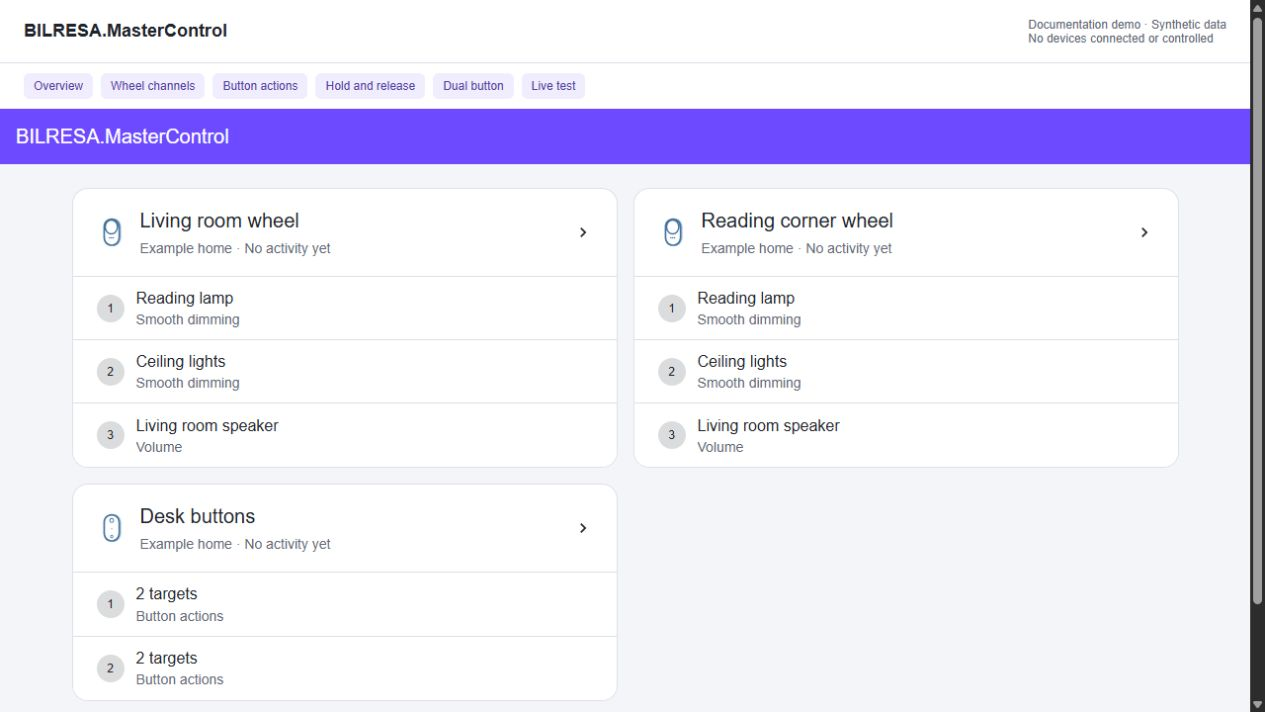
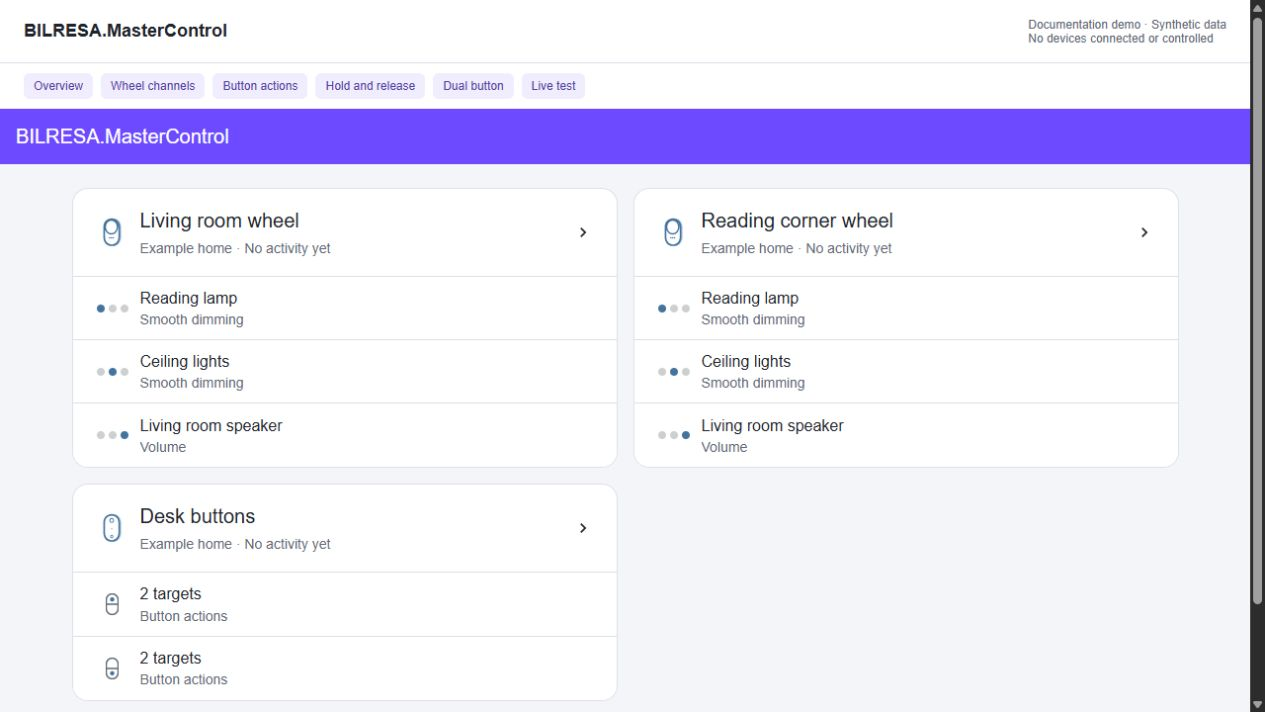
Restore README branding and unify channel markers for rc3 release

diff --git a/custom_components/ikea_bilresa/frontend/ikea_bilresa_panel.js b/custom_components/ikea_bilresa/frontend/ikea_bilresa_panel.js
@@ -506,16 +506,13 @@ const STYLES = `
     background: var(--_card);
   }
   .channel:last-child { border-block-end: 0; }
-  .channel-n {
+  .control-marker {
     flex: 0 0 auto;
-    inline-size: 28px;
-    block-size: 28px;
-    display: grid;
-    place-items: center;
-    border-radius: 50%;
-    background: color-mix(in srgb, var(--_ink) 16%, var(--_card));
-    font-size: var(--ha-font-size-s, 12px);
-    font-weight: var(--ha-font-weight-medium, 500);
+    inline-size: 32px;
+    min-block-size: 28px;
+    display: inline-flex;
+    align-items: center;
+    justify-content: center;
   }
   .channel-text { min-inline-size: 0; flex: 1; }
   .channel-primary,
@@ -2291,10 +2288,9 @@ class IkeaBilresaPanel extends HTMLElement {
 
   _overviewControl(device, control) {
     const configured = this._isConfigured(control);
-    const number = this._controlNumber(device, control);
     const row = el("span", "channel");
     row.dataset.state = configured ? "ok" : "empty";
-    row.appendChild(el("span", "channel-n", String(number)));
+    row.appendChild(this._controlMarker(device, control));
 
     // The light is what a person recognises; "Smooth dimming" was the same on
     // every row of a typical home, so it no longer leads.
@@ -2324,6 +2320,24 @@ class IkeaBilresaPanel extends HTMLElement {
       row.appendChild(svg(ICON.alert, "channel-warn"));
     }
     return row;
+  }
+
+  _controlMarker(device, control) {
+    const isButton = device.variant === "dual_button";
+    const number = this._controlNumber(device, control);
+    const label = this._t(isButton ? "button_title" : "channel_title", {
+      [isButton ? "button" : "channel"]: number,
+    });
+    const marker = el("span", "control-marker");
+    marker.title = label;
+    marker.setAttribute("role", "img");
+    marker.setAttribute("aria-label", label);
+    marker.appendChild(
+      isButton
+        ? buttonHalves(number)
+        : channelLeds(number, this._controlsFor(device).length),
+    );
+    return marker;
   }
 
   _wheel(wheel) {
@@ -4893,7 +4907,7 @@ class IkeaBilresaPanel extends HTMLElement {
     for (const control of this._controlsFor(wheel)) {
       const number = this._controlNumber(wheel, control);
       const row = el("div", "live-channel");
-      row.appendChild(el("span", "channel-n", String(number)));
+      row.appendChild(this._controlMarker(wheel, control));
       const copy = el("div", "live-channel-copy");
       copy.appendChild(
         el(

diff --git a/tests/test_docs.py b/tests/test_docs.py
@@ -113,6 +113,20 @@ def test_readme_links_to_hardware_plan() -> None:
     assert "docs/HARDWARE-VALIDATION.md" in _links(README_EN)
 
 
+def test_readme_preserves_the_banner_and_marketplace_install_button() -> None:
+    text = README_EN.read_text(encoding="utf-8")
+    assert "docs/images/bilresa-remotes-banner.jpg" in _links(README_EN)
+    assert (
+        "[![Open in Marketplace on My Home Assistant]"
+        "(https://my.home-assistant.io/badges/marketplace_repository.svg)]"
+        "(https://my.home-assistant.io/redirect/marketplace_repository/"
+        "?owner=WI-Les&repository=ha-bilresa&category=integration)"
+    ) in text
+    assert text.index("bilresa-remotes-banner.jpg") < text.index(
+        "marketplace_repository.svg"
+    )
+
+
 def test_the_link_pattern_reads_titles_and_parentheses() -> None:
     line = (
         "[a](plain.md) [b](page_(draft).md#x) [c](<with space.md>) "

diff --git a/docs/RELEASE-CANDIDATE.md b/docs/RELEASE-CANDIDATE.md
@@ -1,39 +1,41 @@
-# Release candidate 0.1.0-rc.2
+# BILRESA.MasterControl 0.2.0-rc.3
 
-## Highlights
+Public release candidate for the existing `ikea_bilresa` integration. It combines real-time scrolling and configurable single/double/triple press, hold and release in one panel. Existing Matter pairings, entity IDs and scroll settings are retained.
 
-- Reject follower configurations whose reported light groups overlap, with a
-  clear message in both setup interfaces. Recheck membership before dispatch.
-- Cancel stale follower-group work when another binding changes a group member.
-- Avoid guessing a media player's volume when its reported level is missing,
-  invalid or outside its supported range.
-- Add installation, migration, rollback and target compatibility guidance.
+## New in this candidate
 
-Based on Vituhlos/ha-ikea-bilresa v0.7.0-rc.7; retain the original MIT notice
-and contributor attribution. The original Matter event engine, dimming logic
-and panel remain upstream work.
+- Restore the original README banner and official **Open in Marketplace** button.
+- Replace numbered overview and Live test badges with the same three-dot channel symbols as the detail pages. The highlighted dot identifies the channel, not connection state.
+- Use the existing upper/lower physical button symbol for dual-button remotes.
+- Retain localized tooltips and accessible channel/button names.
+- Refresh the seven synthetic documentation screenshots, Quick Start, manual and version-selection instructions.
 
-## Release checks
+## MasterControl changes since stable 0.1.0
 
-- Review the public branch and its history for private data and credentials.
-- Run the full Home Assistant matrix, protocol and frontend suites, Hassfest,
-  and HACS validation against the exact release candidate. HACS validation for
-  a private development repository is skipped by design.
-- Confirm both icon files are included, installation instructions match the
-  actual release, and the manifest, tag and release metadata agree.
-- Record tested device classes and disclose remaining hardware and browser gaps.
-- Keep the existing public release available until the new candidate is ready;
-  do not replace or move an existing tag.
+- Bounded custom hold sequences, optional stop-on-release, cancellation of delayed starts and duplicate-hold suppression.
+- Optional actions after an observed hold is released; orphan releases and timeouts do not run them.
+- Linked profiles for matching existing wheel bindings, while keeping separate device identities and hold sessions.
+- Observe-only direct button actions and action validation without execution for staged migration.
+- Correct Buttons only summaries, release-action visibility/validation and the binding editor's shared-profile notice.
 
-## Validation
+## Install or update
 
-- A physical BILRESA scroll wheel on Home Assistant 2026.11.2 controlled a
-  native three-light Zigbee2MQTT group. All three lights reported the same
-  settled brightness after changes in both directions. The tester confirmed
-  that the lamps dimmed together without visible jumps.
-- On an isolated Home Assistant 2026.11.1 installation, Chrome completed the
-  setup flow after recovering from a Matter connection error. The panel loaded
-  at desktop and phone widths, and Home Assistant served both bundled icons.
-  The Matter device in that browser test was simulated.
-- The hardware pilot covered one group. Other devices and network
-  configurations may behave differently.
+Home Assistant **2026.8+** with working Matter is required. Commission the remote in Home Assistant Matter first.
+
+On **2026.11+**, open the repository in Marketplace, enable **Include pre-releases** and select **0.2.0-rc.3**. With HACS, enable beta/pre-release versions and select the same candidate. Stable **0.1.0** remains available and has the older interface.
+
+For a manual installation, download this release's source archive and install the complete `custom_components/ikea_bilresa` directory. Back up the previous component and integration configuration first, restart Home Assistant after updating, then reload the frontend. Do not re-pair remotes or install a second component with the same domain.
+
+See the [Quick Start](https://github.com/WI-Les/ha-bilresa/blob/v0.2.0-rc.3/docs/QUICK-START.md), [full manual](https://github.com/WI-Les/ha-bilresa/blob/v0.2.0-rc.3/docs/USER-GUIDE.md) and [installation/rollback guide](https://github.com/WI-Les/ha-bilresa/blob/v0.2.0-rc.3/docs/INSTALLATION.md).
+
+## Validation and limits
+
+Automated Home Assistant integration, protocol, frontend, documentation, HACS and hassfest checks run against the candidate. Browser checks cover the production panel preview at desktop, tablet and phone widths. The preview uses synthetic devices and no actuator connection.
+
+Earlier physical evidence covers a scroll wheel controlling a three-light Zigbee2MQTT group; it does not establish every target/device combination. Full physical acceptance of the new MasterControl gestures remains pending. This candidate does not claim that software tests or screenshots prove physical button timing.
+
+Keep old button automations disabled as a fallback when activating direct binding actions. Observe-only leaves event entities, triggers, virtual switches and scrolling active; disabling a whole channel suppresses this integration's dispatch for that channel. Keep a matching backup for rollback.
+
+## Credits
+
+Based on [Vituhlos/ha-ikea-bilresa](https://github.com/Vituhlos/ha-ikea-bilresa), retaining the MIT license and attribution. MasterControl is an independent community project maintained by Les.

diff --git a/README.md b/README.md
@@ -1,5 +1,11 @@
 # BILRESA.MasterControl
 
+![BILRESA for Home Assistant with the scroll wheel and dual-button Matter remotes](docs/images/bilresa-remotes-banner.jpg)
+
+<!-- ha-marketplace:exclude-start -->
+[![Open in Marketplace on My Home Assistant](https://my.home-assistant.io/badges/marketplace_repository.svg)](https://my.home-assistant.io/redirect/marketplace_repository/?owner=WI-Les&repository=ha-bilresa&category=integration)
+<!-- ha-marketplace:exclude-end -->
+
 Real-time scrolling, single/double/triple presses, hold and release in one Home Assistant integration for IKEA BILRESA Matter remotes.
 
 [Quick Start](docs/QUICK-START.md) · [Full manual](docs/USER-GUIDE.md) · [Installation and rollback](docs/INSTALLATION.md) · [Changelog](CHANGELOG.md)
@@ -21,13 +27,15 @@ Targets can use any supported Home Assistant integration; they do not need to be
 
 ## Version and installation
 
-This branch documents **0.2.0-rc.2**, the MasterControl release candidate. A source version on `main` is not automatically a published Marketplace/HACS release. Check the version offered before installing; stable **0.1.0** predates MasterControl's shared profiles and bounded hold actions.
+The current MasterControl release candidate is [**0.2.0-rc.3**](https://github.com/WI-Les/ha-bilresa/releases/tag/v0.2.0-rc.3). Enable **Include pre-releases** in Marketplace/HACS and select that version. Stable **0.1.0** predates MasterControl's shared profiles and bounded hold actions.
 
-- Home Assistant **2026.11+**: [Open in Marketplace](https://my.home-assistant.io/redirect/marketplace_repository/?owner=WI-Les&repository=ha-bilresa&category=integration). Include pre-releases only if the intended candidate is published there.
+- Home Assistant **2026.11+**: [Open in Marketplace](https://my.home-assistant.io/redirect/marketplace_repository/?owner=WI-Les&repository=ha-bilresa&category=integration), enable pre-releases and choose **0.2.0-rc.3**.
 - Home Assistant **2026.8–2026.10**: [Open in HACS](https://my.home-assistant.io/redirect/hacs_repository/?owner=WI-Les&repository=ha-bilresa&category=integration).
 - For the current source candidate: follow [manual installation](docs/INSTALLATION.md#manual-installation).
 
 The integration name and sidebar are **BILRESA.MasterControl**. Its folder and domain remain `ikea_bilresa`; upgrading an existing installation does not require re-pairing devices or changing entity IDs. Install only one implementation of this domain.
+
+Overview and Live test identify wheel channels with the same three-dot symbols as the detail pages. The highlighted dot identifies the channel, not connection status. Dual-button remotes use the matching upper/lower button symbol.
 
 ## Start with one channel
 

diff --git a/docs/QUICK-START.md b/docs/QUICK-START.md
@@ -1,6 +1,6 @@
 # Quick Start — BILRESA.MasterControl
 
-This guide covers **0.2.0-rc.2**. Start with one remote and one light, then add the other gestures. Screenshots show the shipped panel with synthetic examples; Home Assistant's native selectors and action editor can look different. [About the screenshots](SCREENSHOTS.md).
+This guide covers **0.2.0-rc.3**. Start with one remote and one light, then add the other gestures. Screenshots show the shipped panel with synthetic examples; Home Assistant's native selectors and action editor can look different. [About the screenshots](SCREENSHOTS.md).
 
 ## 1. Prepare
 
@@ -10,7 +10,7 @@ Back up the existing integration and its configuration before upgrading. Keep ol
 
 ## 2. Install BILRESA.MasterControl
 
-Use [Marketplace, HACS or manual installation](INSTALLATION.md). Check the version offered: the stable 0.1.0 release has the older interface; the current source candidate has MasterControl features. Downloading `main` and selecting a published release are different installation paths.
+Use [Marketplace, HACS or manual installation](INSTALLATION.md). Enable **Include pre-releases** and select **0.2.0-rc.3** for this interface. Stable 0.1.0 has the older interface. A source snapshot of `main` can differ from a published release.
 
 Restart Home Assistant. For a new installation, choose **Settings → Devices & services → Add integration → BILRESA.MasterControl** and follow the connection flow. Existing `ikea_bilresa` installations retain their config entry and entities; do not add a second copy or re-pair the remote.
 
@@ -19,6 +19,8 @@ The integration reuses the configured core Matter connection when possible. If s
 ## 3. Open your remote
 
 Open **BILRESA.MasterControl** in the sidebar. Each discovered wheel remote shows three channels; a dual-button remote shows two buttons. Select your remote.
+
+The three-dot symbol identifies the wheel channel by its highlighted position. Dual-button rows show the upper or lower physical button. These symbols match the detail pages and Live test; hover text and accessible names retain the channel/button number.
 
 ![Overview of example remotes](images/mastercontrol/01-overview.jpg)
 

diff --git a/docs/SCREENSHOTS.md b/docs/SCREENSHOTS.md
@@ -1,6 +1,6 @@
 # Documentation screenshots
 
-Captured on **22 November 2026** from the **0.2.0-rc.2** frontend in this repository.
+Captured on **22 November 2026** from the **0.2.0-rc.3** frontend in this repository.
 
 These are browser screenshots of the shipped panel, using synthetic devices and bindings. They are not screenshots of a household installation and do not prove physical operation. The preview banner identifies the demo. Views scrolled into an editor section may not include that banner.
 
@@ -20,12 +20,12 @@ The fixture uses the production binding normalizer, panel snapshot builder, sche
 
 | File | View |
 | --- | --- |
-| [Overview](images/mastercontrol/01-overview.jpg) | Two wheel remotes and one dual-button remote |
+| [Overview](images/mastercontrol/01-overview.jpg) | Two wheels with channel dots and a dual-button remote with upper/lower symbols |
 | [Channels](images/mastercontrol/02-channels.jpg) | Rotation and press/hold action ledger |
 | [Press editor](images/mastercontrol/03-button-actions.jpg) | Short press response and double press actions |
 | [Hold and release](images/mastercontrol/04-hold-release.jpg) | Stop-on-release, 60-second bound and release actions |
 | [Dual button](images/mastercontrol/05-dual-buttons.jpg) | Independent press targets and fixed hold directions |
-| [Live test](images/mastercontrol/06-live-test.jpg) | Synthetic accepted action, not a real dispatch |
+| [Live test](images/mastercontrol/06-live-test.jpg) | Channel dots and a synthetic accepted action, not a real dispatch |
 | [Phone width](images/mastercontrol/07-mobile.jpg) | Overview checked at a 390-pixel viewport |
 
 ![Phone-width overview](images/mastercontrol/07-mobile.jpg)

diff --git a/docs/USER-GUIDE.md b/docs/USER-GUIDE.md
@@ -1,6 +1,6 @@
 # BILRESA.MasterControl manual
 
-For **0.2.0-rc.2**. The integration's display name is BILRESA.MasterControl; its technical domain and component folder remain `ikea_bilresa`.
+For **0.2.0-rc.3**. The integration's display name is BILRESA.MasterControl; its technical domain and component folder remain `ikea_bilresa`.
 
 [Quick Start](QUICK-START.md) · [Installation](INSTALLATION.md) · [Migration and recovery](MASTERCONTROL.md)
 
@@ -35,6 +35,8 @@ Open **BILRESA.MasterControl** from the sidebar. Device names and areas come fro
 ![Device overview](images/mastercontrol/01-overview.jpg)
 
 Select a device for **Channels** or **Buttons**, **Live test**, and **Diagnostics**. The channel ledger lists rotation, short press, double press, triple press and hold/release together. Only relevant assigned gestures appear. Choose **Edit binding** to configure them in the same order.
+
+The overview and Live test use the same three-dot channel symbols as the detail pages. The first, second or third highlighted dot means Channel 1, 2 or 3; it is a channel identifier, not a connection indicator. Dual-button remotes use the upper/lower physical button symbol. Markers retain localized tooltips and accessible channel/button names.
 
 ![Channel actions together in one ledger](images/mastercontrol/02-channels.jpg)
 

diff --git a/PROJECT_STATUS.md b/PROJECT_STATUS.md
@@ -1,6 +1,6 @@
 # Project status
 
-BILRESA.MasterControl 0.2.0-rc.2 extends the existing runtime; it retains the
+BILRESA.MasterControl 0.2.0-rc.3 extends the existing runtime; it retains the
 `ikea_bilresa` domain, connection and entity identifiers. New hold lifecycle and
 linked-profile tests cover the software behaviour. Physical acceptance of all
 new migrated gestures must be confirmed on the target installation.
@@ -10,7 +10,10 @@ press response, bounded hold sequences, release actions, observe-only migration
 and linked profiles. Seven browser screenshots show the production panel with
 synthetic data; see [screenshot provenance](docs/SCREENSHOTS.md). They do not
 establish physical hardware response. The source candidate is distinct from
-published Marketplace/HACS releases.
+published Marketplace/HACS releases. Candidate 0.2.0-rc.3 is published separately
+from stable 0.1.0; enable pre-releases to select it. The original README banner
+and official Marketplace button are retained. Overview and Live test now reuse
+the detail pages' channel dots and upper/lower button symbols.
 
 The [upstream comparison](docs/UPSTREAM-COMPARISON.md) records the original
 project's retained capabilities and this fork's additions. The editor, release

diff --git a/docs/INSTALLATION.md b/docs/INSTALLATION.md
@@ -1,10 +1,10 @@
 # Installation and migration
 
-Current source documentation: **BILRESA.MasterControl 0.2.0-rc.2**. Check the version
-offered by Marketplace/HACS: a commit on `main` is not automatically a release.
+Current release candidate: [**BILRESA.MasterControl 0.2.0-rc.3**](https://github.com/WI-Les/ha-bilresa/releases/tag/v0.2.0-rc.3).
+Enable **Include pre-releases** in Marketplace/HACS and select this version.
 Stable 0.1.0 uses the older IKEA BILRESA name and lacks the new MasterControl
-hold lifecycle and shared profiles. Use a published candidate when available,
-or install the intended source manually.
+hold lifecycle and shared profiles. A commit on `main` is not automatically a
+release; use the release archive for a reproducible manual installation.
 
 ## Before you start
 

diff --git a/CHANGELOG.md b/CHANGELOG.md
@@ -1,5 +1,15 @@
 # Changelog
 
+## 0.2.0-rc.3
+
+- Restore the original README banner and official Open in Marketplace badge.
+- Use the existing three-dot channel symbols in the overview and Live test,
+  with matching upper/lower symbols for dual-button remotes.
+- Keep localized channel/button tooltips and accessible marker names.
+- Refresh all seven documentation screenshots and installation/version guidance
+  for the public MasterControl release candidate.
+- Retain the existing gesture behaviour, bindings, entity IDs and recovery path.
+
 ## 0.2.0-rc.2
 
 - Fix the binding editor's undefined shared-profile variable.

diff --git a/docs/MASTERCONTROL.md b/docs/MASTERCONTROL.md
@@ -1,6 +1,6 @@
 # BILRESA.MasterControl
 
-For 0.2.0-rc.2. See the illustrated [Quick Start](QUICK-START.md) and
+For 0.2.0-rc.3. See the illustrated [Quick Start](QUICK-START.md) and
 [full manual](USER-GUIDE.md) for everyday configuration.
 
 MasterControl keeps real-time scrolling and single, double, triple, hold and
